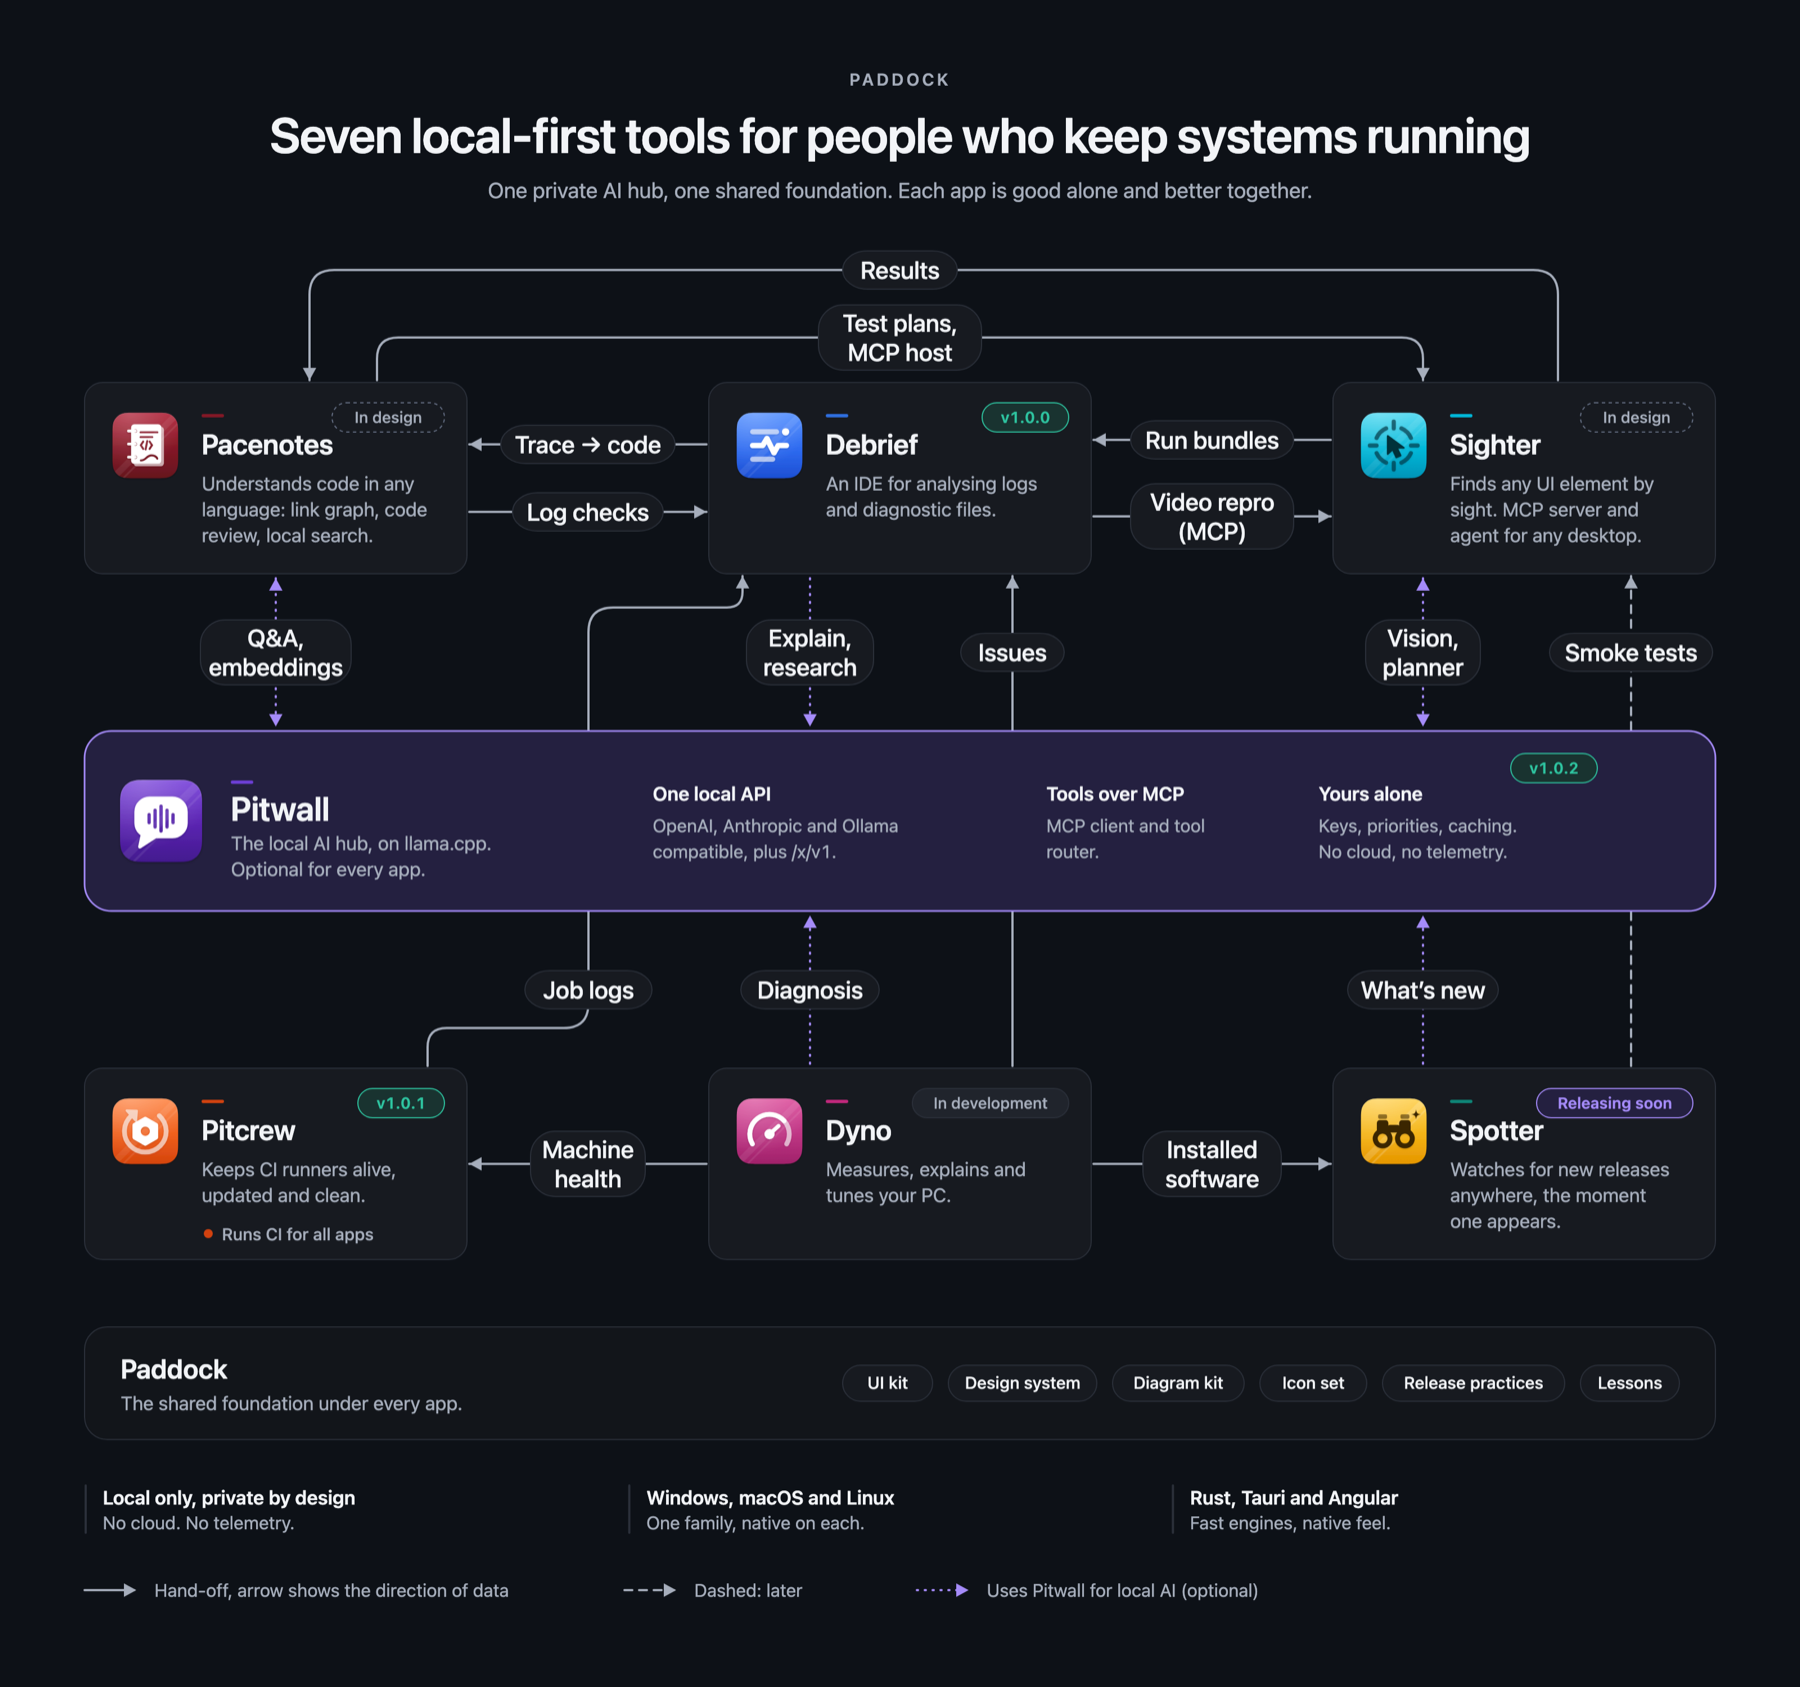
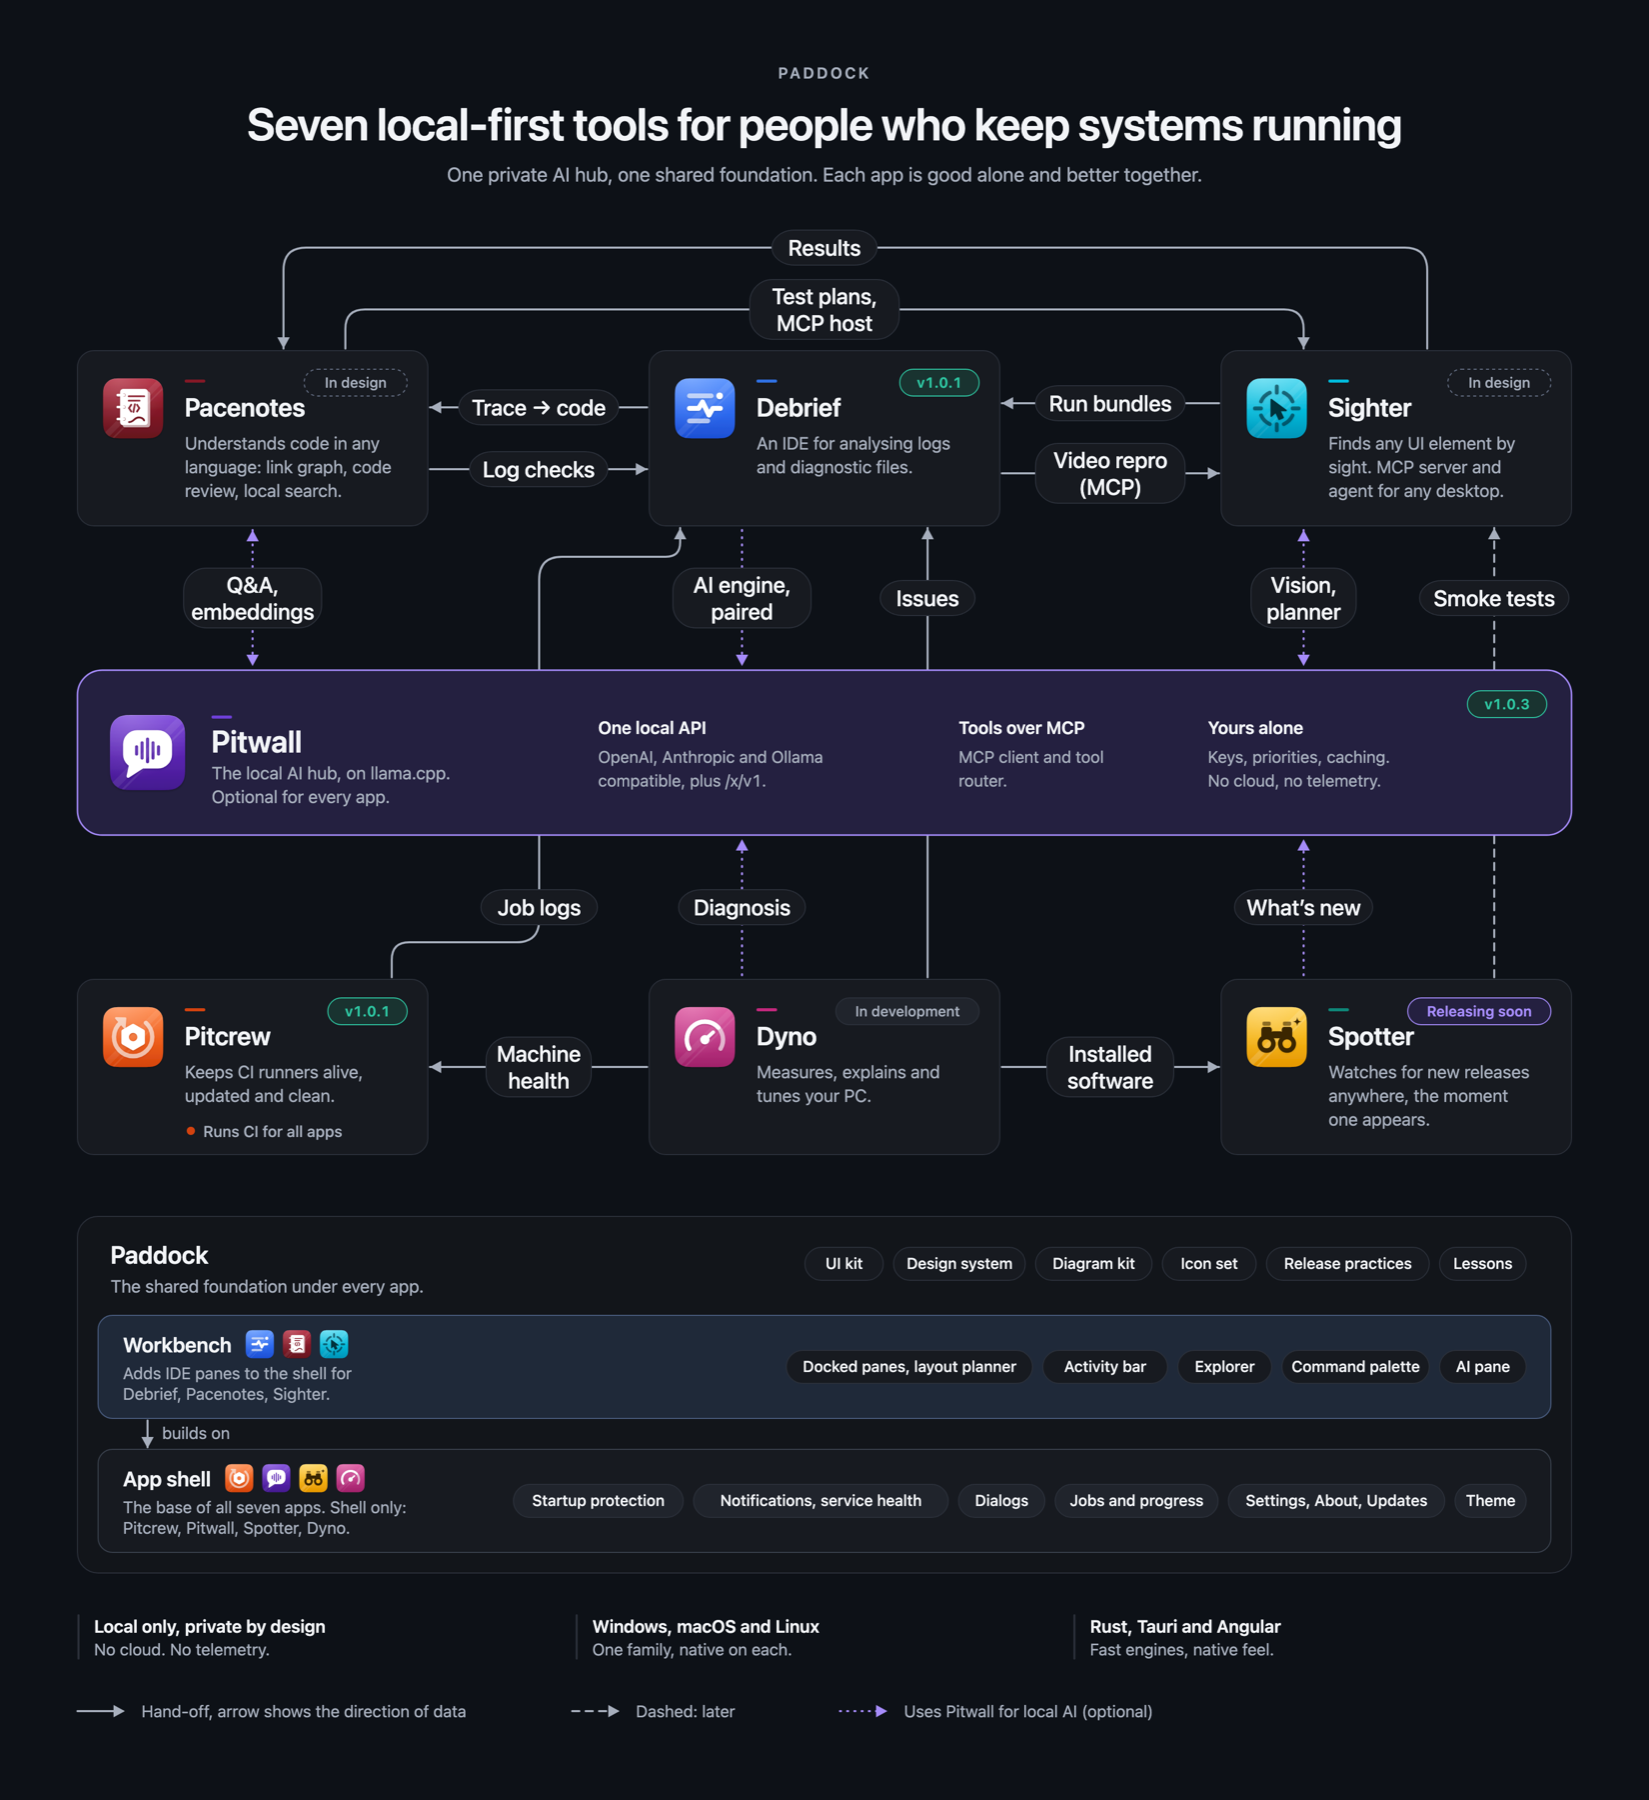
docs: Paddock hero with the app shell and workbench layers; statuses for 2026-10-24

diff --git a/README.md b/README.md
@@ -25,26 +25,26 @@ By night I build **Paddock**, and self-host the infrastructure it runs on.
 
 **A family of local-first desktop tools for people who keep systems running.** Rust engines and Angular interfaces in
 Tauri, native on Windows, macOS and Linux. No cloud, no telemetry, no accounts. Each app is useful on its own; together
-they share one design system, one release practice and an optional private AI hub that runs on your own machine.
+they share one design system, one app shell (plus a workbench for the IDE-style apps), one release practice and an optional private AI hub that runs on your own machine.
 
 <p align="center">
   <a href="https://dev.decryptology.net/decryp7/paddock">
     <picture>
-      <source media="(prefers-color-scheme: dark)" srcset="images/paddock-ecosystem-dark.png?v=a00f2d40">
-      <img src="images/paddock-ecosystem-light.png?v=651219f0" alt="The Paddock family: Pacenotes, Debrief and Sighter above the Pitwall AI hub; Pitcrew, Dyno and Spotter below; all on one shared foundation" width="900">
+      <source media="(prefers-color-scheme: dark)" srcset="images/paddock-ecosystem-dark.png?v=71b4fe88">
+      <img src="images/paddock-ecosystem-light.png?v=cbede3d7" alt="The Paddock family: Pacenotes, Debrief and Sighter above the Pitwall AI hub; Pitcrew, Dyno and Spotter below; all on one shared foundation: an app shell for every app and a workbench for the IDE-style apps" width="900">
     </picture>
   </a>
 </p>
 
 | | App | For | Status |
 |:-:|---|---|---|
-| <img src="images/debrief.png?v=7e9b20ca" width="36"> | **[Debrief](https://dev.decryptology.net/decryp7/debrief)** | An IDE for analysing logs and diagnostic files: timelines, queries, anomalies, incident reports. | **v1.0.0 released** |
+| <img src="images/debrief.png?v=7e9b20ca" width="36"> | **[Debrief](https://dev.decryptology.net/decryp7/debrief)** | An IDE for analysing logs and diagnostic files: timelines, queries, anomalies, incident reports. | **v1.0.1 released** (1.1 coming) |
 | <img src="images/pitcrew.png?v=931ab6ae" width="36"> | **[Pitcrew](https://dev.decryptology.net/decryp7/pitcrew)** | Keeps self-hosted CI runners alive, updated and clean. | **v1.0.1 released** |
-| <img src="images/pitwall.png?v=91f91635" width="36"> | **[Pitwall](https://dev.decryptology.net/decryp7/pitwall)** | The private, local LLM server (llama.cpp) the other apps can talk to; optional for every app. | **v1.0.2 released** |
+| <img src="images/pitwall.png?v=91f91635" width="36"> | **[Pitwall](https://dev.decryptology.net/decryp7/pitwall)** | The private, local LLM server (llama.cpp) the other apps can talk to; optional for every app. | **v1.0.3 released** (next after Debrief) |
 | <img src="images/dyno.png?v=570ffe4d" width="36"> | **[Dyno](https://dev.decryptology.net/decryp7/dyno)** | Measures, explains and tunes your PC, with undo for every change. | In development |
 | <img src="images/spotter.png?v=f1c9ff22" width="36"> | **[Spotter](https://dev.decryptology.net/decryp7/spotter)** | Watches for new releases anywhere, from file shares to web pages. | Releasing soon |
-| <img src="images/sighter.png?v=1f6b69f8" width="36"> | **[Sighter](https://dev.decryptology.net/decryp7/sighter)** | Vision-based UI automation for apps with or without accessibility, and an MCP server and agent that drives any desktop (local or over RDP). | In design |
-| <img src="images/pacenotes.png?v=caa9dcea" width="36"> | **[Pacenotes](https://dev.decryptology.net/decryp7/pacenotes)** | Understands code in any language: a dependency graph of every link, code review with your own rules, local semantic search, and an MCP server. | In design |
+| <img src="images/sighter.png?v=1f6b69f8" width="36"> | **[Sighter](https://dev.decryptology.net/decryp7/sighter)** | Vision-based UI automation for apps with or without accessibility, and an MCP server and agent that drives any desktop (local or over RDP). | In design (after Pitwall) |
+| <img src="images/pacenotes.png?v=caa9dcea" width="36"> | **[Pacenotes](https://dev.decryptology.net/decryp7/pacenotes)** | Understands code in any language: a dependency graph of every link, code review with your own rules, local semantic search, and an MCP server. | In design (after Pitwall) |
 
 **[Meet the family →](https://dev.decryptology.net/decryp7/paddock/src/branch/main/docs/ecosystem.md)** how the apps
 work together, the principles behind them and the roadmap.
